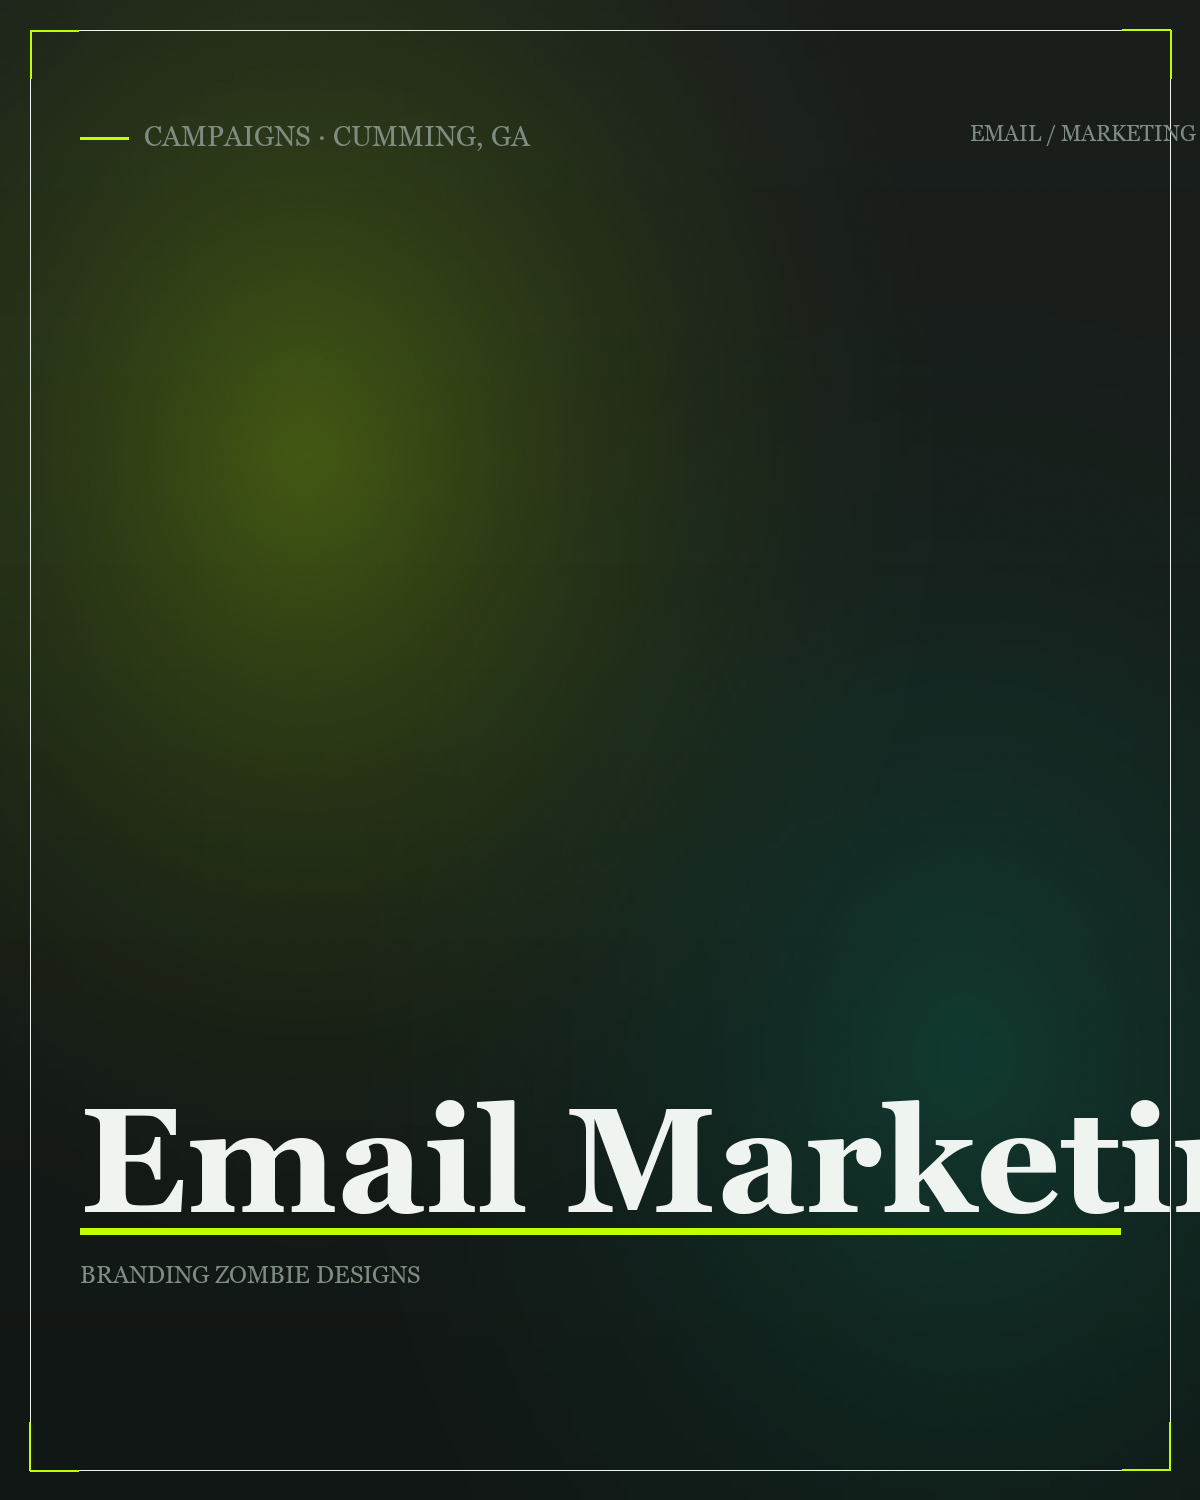
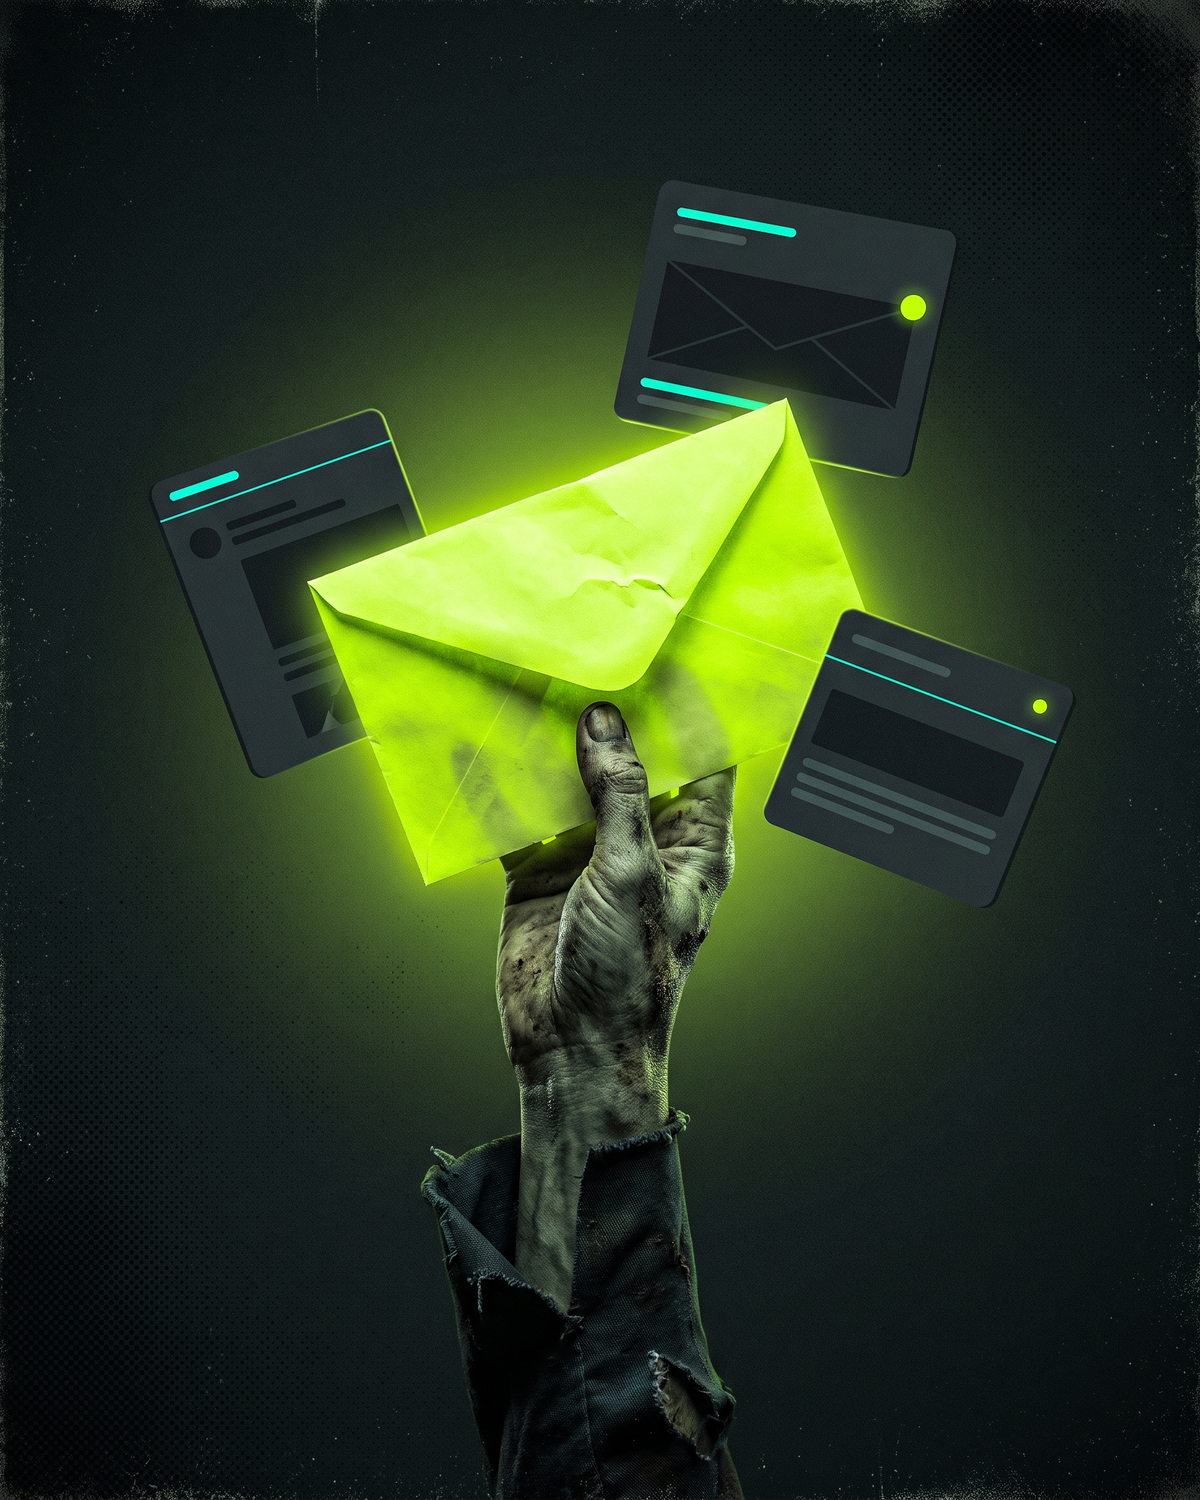
Email marketing: real Higgsfield hero + setup fee to flat $350
Nano Banana Pro render (zombie hand raising glowing toxic-green envelope,
floating email UI cards) replaces the placeholder hero — matches the
charcoal/toxic-green house style, no AI-invented logos. Setup fee reduced
$750 → flat $350 across FAQ, pricing note, and AEO block (owner-approved).

diff --git a/src/data/services.ts b/src/data/services.ts
@@ -1537,11 +1537,11 @@ export const SERVICES: Service[] = [
       },
       {
         q: "What does setup cost?",
-        a: "One-time Email Engine Setup is $750 — platform configuration, deliverability records (SPF/DKIM/DMARC), a branded master template, list import with hygiene pass, and a 3-email welcome series. It's waived on Full Funnel and credited if you start on Growth within 60 days.",
+        a: "One-time Email Engine Setup is a flat $350 — platform configuration, deliverability records (SPF/DKIM/DMARC), a branded master template, list import with hygiene pass, and a 3-email welcome series. It's waived on Full Funnel and credited if you start on Growth within 60 days.",
       },
       {
         q: "My list is tiny. Is this worth it?",
-        a: "Honest answer: below a few hundred contacts, a monthly retainer is premature. Start with the $750 setup so every new customer gets captured and welcomed automatically, add a lead magnet to grow the list, and step into a monthly plan when the math works. We'll tell you which side of that line you're on in the free call.",
+        a: "Honest answer: below a few hundred contacts, a monthly retainer is premature. Start with the flat $350 setup so every new customer gets captured and welcomed automatically, add a lead magnet to grow the list, and step into a monthly plan when the math works. We'll tell you which side of that line you're on in the free call.",
       },
       {
         q: "Who writes the emails?",
@@ -1568,7 +1568,7 @@ export const SERVICES: Service[] = [
       label: "Monthly plans start at",
       price: "$499",
       unit: "/ month",
-      note: "Month-to-month. Growth at $899 adds automations and segmentation; Full Funnel at $1,499 runs the whole channel. One-time Email Engine Setup (platform + template + welcome series) — $750.",
+      note: "Month-to-month. Growth at $899 adds automations and segmentation; Full Funnel at $1,499 runs the whole channel. One-time Email Engine Setup (platform + template + welcome series) — flat $350.",
       numericPrice: "499",
     },
     finalCta: {

diff --git a/src/data/service-aeo.ts b/src/data/service-aeo.ts
@@ -84,11 +84,11 @@ export const SERVICE_AEO: Partial<Record<ServiceSlug, ServiceAeo>> = {
   },
   "email-marketing": {
     answerFirst:
-      "Email marketing from Branding Zombie Designs is done-for-you campaign design, copywriting, and automation for small businesses in Cumming, GA and across North Metro Atlanta — Klaviyo, Mailchimp, or Resend, from $499/month with a one-time $750 setup, month-to-month, and the client owns the list. Deliverability (SPF/DKIM/DMARC) is configured as step one so campaigns land in the inbox, not spam.",
+      "Email marketing from Branding Zombie Designs is done-for-you campaign design, copywriting, and automation for small businesses in Cumming, GA and across North Metro Atlanta — Klaviyo, Mailchimp, or Resend, from $499/month with a flat $350 one-time setup, month-to-month, and the client owns the list. Deliverability (SPF/DKIM/DMARC) is configured as step one so campaigns land in the inbox, not spam.",
     stats: [
       { value: "$499/mo", label: "Starting, month-to-month" },
       { value: "15+ yrs", label: "Campaign design for CPG & DTC brands" },
-      { value: "$750", label: "One-time setup — platform, template, welcome series" },
+      { value: "$350", label: "Flat one-time setup — platform, template, welcome series" },
     ],
     expertQuote: quote(
       "Almost every business I meet has the same asset gathering dust: a list of customers who already said yes once, that nobody has emailed in years. We run our own automated email engine on this site — the same machine we build for clients.",
